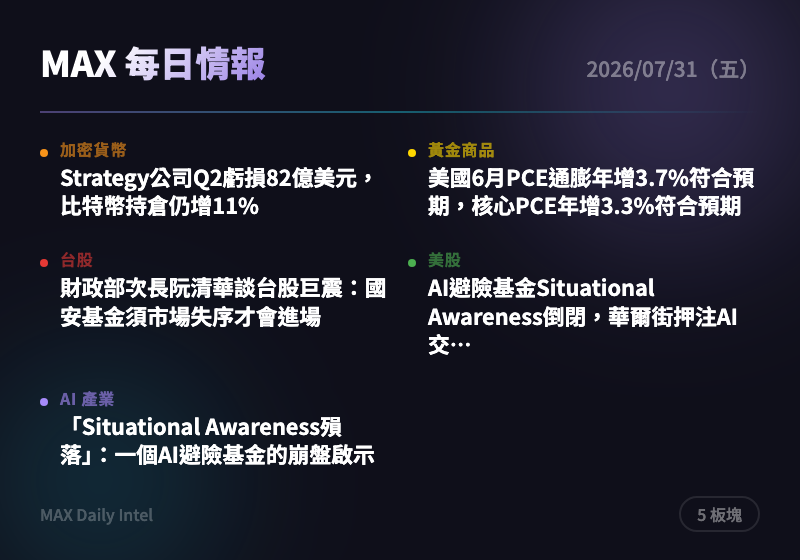
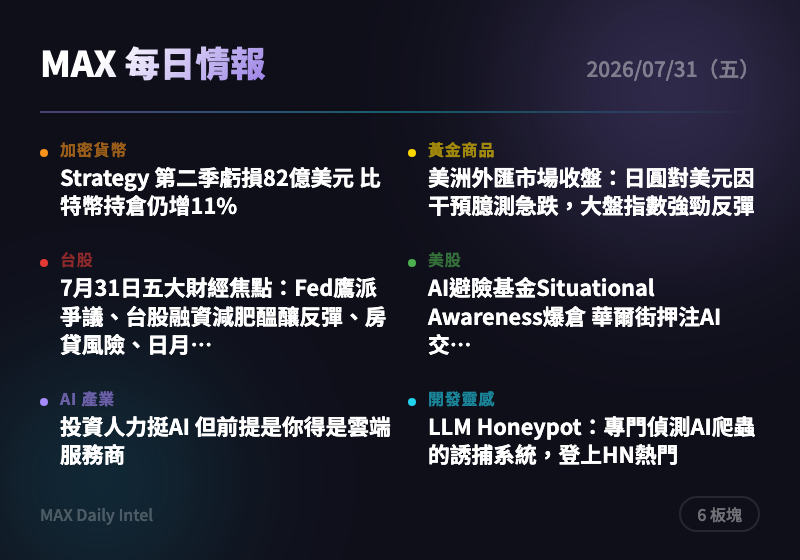
intel: 2026-07-31 每日情報自動生成

diff --git a/docs/2026-07-31.html b/docs/2026-07-31.html
@@ -295,7 +295,7 @@
     <h1>每日情報站</h1>
     <div class="date">2026 年 7 月 31 日（五）</div>
     <div class="stats">
-      <span>10 則情報</span>
+      <span>12 則情報</span>
       <span>7 大板塊</span>
     </div>
   </header>
@@ -317,16 +317,16 @@
       <span class="badge">2 則</span>
     </div>
     <div class="news-card">
-      <div class="source">The Block</div>
-      <h3><a href="https://www.theblock.co/post/410212/strategy-posts-8-2-billion-loss-as-bitcoin-holdings-increase-11-during-q2?utm_source=rss&utm_medium=rss" target="_blank" rel="noopener">Strategy公司Q2虧損82億美元，比特幣持倉仍增11%</a></h3>
-      <div class="summary">Strategy（原MicroStrategy）第二季認列82億美元虧損，主因比特幣價格較去年同期跌逾40%造成未實現損失，但公司持倉逆勢增加11%並建立37.5億美元現金儲備以支應優先股股息。顯示大型比特幣囤幣企業在熊市承受帳面壓力但策略未變，是觀察機構對BTC信心的重要指標。建議持續關注其後續是否被迫減倉。</div>
-      <div class="tags"><span class="tag">比特幣</span><span class="tag">上市公司</span><span class="tag">財報</span><span class="tag">加密貨幣</span></div>
+      <div class="source">CoinTelegraph</div>
+      <h3><a href="https://cointelegraph.com/news/strategy-reports-q2-2026-loss?utm_source=rss_feed&utm_medium=rss&utm_campaign=rss_partner_inbound" target="_blank" rel="noopener">Strategy 第二季虧損82億美元 比特幣持倉仍增11%</a></h3>
+      <div class="summary">比特幣持倉公司 Strategy 因幣價較去年同期跌逾四成，第二季認列82億美元未實現虧損，但同時持續加碼比特幣並建立37.5億美元現金儲備支應優先股股息。這反映機構級比特幣槓桿曝險在幣價下跌時的財務壓力，也顯示公司押注長期上漲的策略未變。建議關注比特幣是否跌破關鍵支撐，若繼續破底 Strategy 財務壓力恐加劇，影響其股票 MSTR 波動度。</div>
+      <div class="tags"><span class="tag">加密貨幣</span><span class="tag">比特幣</span><span class="tag">企業財報</span><span class="tag">Strategy</span></div>
     </div>
     <div class="news-card">
       <div class="source">The Block</div>
-      <h3><a href="https://www.theblock.co/post/410208/coinbase-shares-slip-after-q2-results-despite-prediction-markets-doubling-and-record-trading-market-share?utm_source=rss&utm_medium=rss" target="_blank" rel="noopener">Coinbase股價Q2財報後下滑，儘管預測市場交易量翻倍、市占創新高</a></h3>
-      <div class="summary">Coinbase公布第二季財報後股價下跌，儘管其預測市場業務交易量翻倍、整體加密貨幣交易市占創紀錄新高。公司表示88%淨營收已來自比特幣現貨交易以外的業務，顯示營收多元化成效，但市場對獲利不如預期反應負面。反映加密貨幣交易所正從單一幣種交易轉型為多元金融平台，值得留意其衍生品與穩定幣業務後續發展。</div>
-      <div class="tags"><span class="tag">交易所</span><span class="tag">財報</span><span class="tag">加密貨幣</span><span class="tag">穩定幣</span></div>
+      <h3><a href="https://www.theblock.co/post/410208/coinbase-shares-slip-after-q2-results-despite-prediction-markets-doubling-and-record-trading-market-share?utm_source=rss&utm_medium=rss" target="_blank" rel="noopener">Coinbase Q2財報後股價下滑 儘管預測市場交易量翻倍創紀錄</a></h3>
+      <div class="summary">Coinbase 公布第二季財報，儘管其預測市場業務交易量翻倍且整體加密市場交易份額創新高，股價仍在財報後下跌。公司指出88%淨營收已來自比特幣現貨交易以外的業務，顯示其收入結構正快速多元化，但市場對獲利不如預期仍有疑慮。建議觀察 Coinbase 衍生品與穩定幣業務後續成長動能，作為評估其股票長期價值的依據。</div>
+      <div class="tags"><span class="tag">加密貨幣</span><span class="tag">Coinbase</span><span class="tag">企業財報</span><span class="tag">交易所</span></div>
     </div>
   </section>
 
@@ -338,15 +338,15 @@
     </div>
     <div class="news-card">
       <div class="source">ForexLive</div>
-      <h3><a href="https://investinglive.com/news/us-june-pce-inflation-3-7-vs-3-7-expected-core-3-3-vs-3-3-expected/" target="_blank" rel="noopener">美國6月PCE通膨年增3.7%符合預期，核心PCE年增3.3%符合預期</a></h3>
-      <div class="summary">美國6月核心與整體PCE物價指數雙雙符合市場預期（整體3.7%、核心3.3%），月增率則略低於預期。聯準會主席沃許（Warsh）重申2%目標仍是政策錨點，該數據為市場提供通膨降溫的初步佐證，但幅度有限。建議關注後續FOMC會議是否因此調整利率路徑，及美元、黃金短線波動。</div>
-      <div class="tags"><span class="tag">通膨</span><span class="tag">聯準會</span><span class="tag">PCE</span><span class="tag">美國經濟</span></div>
+      <h3><a href="https://investinglive.com/news/investinglive-americas-fx-news-wrap-30-jul-usdjpy-move/" target="_blank" rel="noopener">美洲外匯市場收盤：日圓對美元因干預臆測急跌，大盤指數強勁反彈</a></h3>
+      <div class="summary">美股主要指數出現快速反彈，市場聚焦亞馬遜與蘋果盤後財報；同時日圓兌美元因市場揣測日本當局可能出手干預匯市而急速走弱。達拉斯聯儲核心通膨指標大幅降溫（+1.4% vs前值2.7%），英格蘭銀行總裁貝利亦稱通膨降溫但速度緩慢。整體訊息偏向通膨降溫、市場風險情緒回穩，建議留意日圓匯市干預傳聞後續發展及對亞洲資產的連動影響。</div>
+      <div class="tags"><span class="tag">外匯</span><span class="tag">央行</span><span class="tag">日圓</span><span class="tag">通膨</span></div>
     </div>
     <div class="news-card">
       <div class="source">ForexLive</div>
-      <h3><a href="https://investinglive.com/news/us-q2-advance-gdp-1-5-vs-2-1-expected/" target="_blank" rel="noopener">美國第二季GDP初值年化增長1.5%，低於預期2.1%</a></h3>
-      <div class="summary">美國第二季GDP初值僅增1.5%，明顯低於市場預期的2.1%，但消費支出表現強勁（3.2% vs 前值0.5%），顯示成長動能結構性轉弱但消費仍具韌性。GDP平減指數達6.3%，遠高於預期3.9%，暗示通膨壓力仍未完全消退。建議留意此組合（成長不如預期+通膨黏著）可能加深市場對停滯性通膨的疑慮，影響債市與黃金避險需求。</div>
-      <div class="tags"><span class="tag">GDP</span><span class="tag">美國經濟</span><span class="tag">通膨</span><span class="tag">總體經濟</span></div>
+      <h3><a href="https://investinglive.com/news/dallas-fed-trimmed-mean-1-4-vs-2-7-in-may/" target="_blank" rel="noopener">達拉斯聯儲核心通膨指標降至1.4% 遠低於前值2.7%</a></h3>
+      <div class="summary">達拉斯聯儲的核心（Trimmed Mean）PCE通膨指標大幅降至+1.4%，遠低於前值+2.7%，也遠低於整體PCE的+3.7%及核心PCE的+3.3%，並創下2020年以來最低水準。此指標剔除極端數據更能反映通膨真實趨勢，降溫幅度明顯高於headline數據，是聯準會鴿派立場的有力佐證。建議留意此訊號是否強化市場對後續降息或維持寬鬆立場的預期，對黃金及美元走勢皆有影響。</div>
+      <div class="tags"><span class="tag">央行</span><span class="tag">通膨</span><span class="tag">美國經濟</span><span class="tag">PCE</span></div>
     </div>
   </section>
 
@@ -358,15 +358,15 @@
     </div>
     <div class="news-card">
       <div class="source">經濟日報</div>
-      <h3><a href="https://money.udn.com/money/story/5607/9661689" target="_blank" rel="noopener">財政部次長阮清華談台股巨震：國安基金須市場失序才會進場</a></h3>
-      <div class="summary">國安基金執行秘書、財政部次長阮清華表示，只有遇到重大事件導致信心崩盤、市場失序等特殊狀況國安基金才會進場護盤，目前股市雖有下跌但也有反彈，暫不視為失序。此發言等於官方定調現階段修正屬正常波動，不會貿然動用國安基金，市場需自行消化賣壓。建議投資人不宜過度期待政策護盤，應以基本面與籌碼面自行判斷進出場時機。</div>
-      <div class="tags"><span class="tag">國安基金</span><span class="tag">台股</span><span class="tag">政策</span><span class="tag">財政部</span></div>
+      <h3><a href="https://money.udn.com/money/story/5607/9661963" target="_blank" rel="noopener">7月31日五大財經焦點：Fed鷹派爭議、台股融資減肥醞釀反彈、房貸風險、日月光加碼</a></h3>
+      <div class="summary">今日台股與國際財經五大焦點涵蓋：Fed利率維持不變但三官員主張升息引發鷹派爭議；台股連日重挫後融資大幅減肥、期指夜盤勁揚顯示反彈訊號浮現；央行示警房貸「四貸同堂」恐危及金融穩定；日月光二度上修資本支出並砸120億元收購友達、乖乖廠房擴產。這些訊息綜合顯示台股短線築底跡象漸增，但總經與信用風險仍需留意。建議關注台指期夜盤走勢及融資變化，判斷反彈是否具持續性。</div>
+      <div class="tags"><span class="tag">台股</span><span class="tag">央行</span><span class="tag">半導體</span><span class="tag">財經時事</span></div>
     </div>
     <div class="news-card">
       <div class="source">經濟日報</div>
-      <h3><a href="https://money.udn.com/money/story/5607/9661806" target="_blank" rel="noopener">台股融資減肥醞釀反彈，台指期夜盤一度勁揚千點，市場氣氛好轉</a></h3>
-      <div class="summary">台股在兩日暴跌3,595點後出現1,751點的震盪洗盤，最終小跌105點收39,933點、失守4萬點大關，但融資餘額大減175.3億元、跌破5,000億元關卡，顯示浮額已大幅出清；台指期夜盤一度勁揚千點，市場氣氛轉為好轉。這是判斷本輪修正是否近尾聲的重要籌碼面訊號，融資出清通常代表恐慌性賣壓釋放接近完成。建議觀察台積電等權值股能否在低檔穩住，作為反彈確認訊號。</div>
-      <div class="tags"><span class="tag">台股</span><span class="tag">融資餘額</span><span class="tag">台指期</span><span class="tag">技術面</span></div>
+      <h3><a href="https://money.udn.com/money/story/5607/9661806" target="_blank" rel="noopener">台股融資大減 醞釀反彈 台指期夜盤一度勁揚千點</a></h3>
+      <div class="summary">台股在兩日內暴跌3,595點後，昨日出現1,751點的震盪洗盤走勢，融資餘額單日再減131.4億元、跌破5,000億元大關，顯示浮額大致出清；盤中在台積電領軍下一度反彈逾千點，終場僅小跌105點守住39,933點。台指期夜盤一度勁揚千點，市場氣氛明顯轉好，顯示短線止跌訊號浮現。建議留意融資是否持續下降、台積電等權值股是否能延續反彈力道，作為判斷是否止跌回穩的關鍵指標。</div>
+      <div class="tags"><span class="tag">台股</span><span class="tag">台積電</span><span class="tag">融資</span><span class="tag">技術面</span></div>
     </div>
   </section>
 
@@ -378,15 +378,15 @@
     </div>
     <div class="news-card">
       <div class="source">MarketWatch</div>
-      <h3><a href="https://www.marketwatch.com/story/implosion-of-situational-awareness-has-wall-street-betting-the-bottom-is-in-for-the-ai-trade-05d9f346?mod=mw_rss_topstories" target="_blank" rel="noopener">AI避險基金Situational Awareness倒閉，華爾街押注AI交易已觸底</a></h3>
-      <div class="summary">由20多歲AI界神童領軍、聲名大噪的避險基金Situational Awareness已實質倒閉，其股票投資組合遭Citadel收購，成為本月美股最戲劇性事件之一。事件發生後，市場反而解讀為AI相關交易的悲觀情緒已達極端、可能是觸底訊號，部分投資人開始逢低承接科技股。建議留意此事件是否僅為單一基金過度槓桿的個案，還是預示AI概念股整體估值修正尚未結束。</div>
-      <div class="tags"><span class="tag">避險基金</span><span class="tag">AI</span><span class="tag">美股</span><span class="tag">科技股</span></div>
+      <h3><a href="https://www.marketwatch.com/story/implosion-of-situational-awareness-has-wall-street-betting-the-bottom-is-in-for-the-ai-trade-05d9f346?mod=mw_rss_topstories" target="_blank" rel="noopener">AI避險基金Situational Awareness爆倉 華爾街押注AI交易已觸底</a></h3>
+      <div class="summary">由二十多歲AI神童操盤的知名避險基金Situational Awareness宣告爆倉，成為近期美股最動盪一個月的戲劇性句點。此事件反而讓華爾街部分投資人解讀為AI交易情緒已見底的訊號，可能是逢低布局的契機。建議留意此類槓桿型AI概念基金風險是否具傳染性，同時觀察後續是否有更多AI相關基金或個股出現資金重新配置。</div>
+      <div class="tags"><span class="tag">美股</span><span class="tag">AI</span><span class="tag">避險基金</span><span class="tag">市場情緒</span></div>
     </div>
     <div class="news-card">
       <div class="source">WSJ Markets</div>
-      <h3><a href="https://www.wsj.com/finance/stocks/microsoft-posts-biggest-one-day-market-cap-gain-for-any-u-s-company-b8713761?mod=rss_markets_main" target="_blank" rel="noopener">微軟創美國企業史上單日市值最大漲幅，Meta股價則重挫</a></h3>
-      <div class="summary">微軟在財報公布後市值單日暴增4,500億美元，創下美國企業史上單日市值最大增幅紀錄，主因雲端業務成長強勁且AI支出被評為「負責任」不致燒錢；同期Meta股價卻重挫，投資人對其AI鉅額支出遲遲看不到廣告以外的獲利感到不耐。兩者形成強烈對比，反映市場正在用「AI變現能力」重新篩選科技巨頭的估值邏輯。建議關注雲端三雄（微軟、亞馬遜、Google）與社群/廣告類AI巨頭（Meta）的估值分化是否持續擴大。</div>
-      <div class="tags"><span class="tag">微軟</span><span class="tag">Meta</span><span class="tag">財報</span><span class="tag">AI</span></div>
+      <h3><a href="https://www.wsj.com/finance/stocks/microsoft-posts-biggest-one-day-market-cap-gain-for-any-u-s-company-b8713761?mod=rss_markets_main" target="_blank" rel="noopener">微軟創美股史上單日最大市值增幅 Meta股價卻重挫</a></h3>
+      <div class="summary">微軟公布財報後市值單日暴增4,500億美元，創下美國企業史上最大單日市值增幅紀錄，主因雲端業務展現強勁成長並在AI支出上採取「負責任」財務策略。同時Meta股價卻大幅重挫，投資人對其AI支出能否轉化為獲利仍存疑。兩者對比凸顯市場正在AI巨頭之間進行嚴格的「投資報酬率」篩選。建議關注科技股財報季後續分化走勢，優先留意具備明確AI變現路徑的公司。</div>
+      <div class="tags"><span class="tag">美股</span><span class="tag">科技股</span><span class="tag">微軟</span><span class="tag">AI</span></div>
     </div>
   </section>
 
@@ -397,16 +397,16 @@
       <span class="badge">2 則</span>
     </div>
     <div class="news-card">
-      <div class="source">The Verge AI</div>
-      <h3><a href="https://www.theverge.com/ai-artificial-intelligence/973467/ai-bet-situational-awareness-oops-stonks" target="_blank" rel="noopener">「Situational Awareness殞落」：一個AI避險基金的崩盤啟示</a></h3>
-      <div class="summary">The Verge以評論角度分析Situational Awareness避險基金崩盤事件，戲稱教訓是「別把基金取一個爆倉了會很好笑的名字」，呼應歷史上長期資本管理（LTCM）等案例。事件核心是基金重壓AI相關資產卻在市場修正中重傷倒閉，反映即便是AI領域內部人士主導的基金，也未能免於過度自信與槓桿風險。建議將此事件視為AI熱潮中風險管理紀律的警世案例，而非否定AI長期趨勢本身。</div>
-      <div class="tags"><span class="tag">AI</span><span class="tag">避險基金</span><span class="tag">市場評論</span><span class="tag">風險管理</span></div>
+      <div class="source">TechCrunch AI</div>
+      <h3><a href="https://techcrunch.com/2026/07/30/investors-love-ai-as-long-as-youre-a-cloud-host/" target="_blank" rel="noopener">投資人力挺AI 但前提是你得是雲端服務商</a></h3>
+      <div class="summary">報導指出，亞馬遜持續加碼資料中心支出，投資人對此並未表現出擔憂，反映市場資金仍偏好具備雲端基礎設施優勢的AI受益者。這顯示AI投資熱潮正逐漸從「概念股」轉向「基礎設施提供者」，資本市場對燒錢式AI投資的容忍度取決於是否有雲端收入作為支撐。建議關注雲端三巨頭（微軟、亞馬遜、Google）資本支出與雲端營收成長的對比，作為判斷AI投資泡沫風險的指標。</div>
+      <div class="tags"><span class="tag">AI</span><span class="tag">雲端運算</span><span class="tag">亞馬遜</span><span class="tag">資本支出</span></div>
     </div>
     <div class="news-card">
       <div class="source">TechCrunch AI</div>
-      <h3><a href="https://techcrunch.com/2026/07/30/judge-says-trump-admin-still-lacks-evidence-for-anthropic-supply-chain-risk-label/" target="_blank" rel="noopener">法官稱川普政府仍缺乏證據將Anthropic列為「供應鏈風險」</a></h3>
-      <div class="summary">聯邦法官表示，川普政府尚未提出足夠證據，證明將Anthropic（人工智慧公司，Claude開發商）列為「供應鏈風險」的正當性，使政府對其AI技術的禁令面臨法律質疑。此案關係到美國政府對AI公司實施出口管制或使用限制的法律基礎是否站得住腳，對整個AI產業的監管環境具指標意義。建議持續關注後續判決是否進一步限縮政府對AI企業的行政裁量權。</div>
-      <div class="tags"><span class="tag">Anthropic</span><span class="tag">監管</span><span class="tag">AI政策</span><span class="tag">法律</span></div>
+      <h3><a href="https://techcrunch.com/2026/07/30/judge-says-trump-admin-still-lacks-evidence-for-anthropic-supply-chain-risk-label/" target="_blank" rel="noopener">法官指川普政府仍缺乏證據將Anthropic列為「供應鏈風險」</a></h3>
+      <div class="summary">聯邦法官表示，川普政府尚未提出足夠證據，證明將Anthropic（人工智慧公司）列為「供應鏈風險」標籤具正當性，使政府對其AI技術的禁令面臨質疑。此案若最終判定政府敗訴，將是AI業者對抗監管過度延伸的重要指標性勝利，也可能影響其他AI公司面對類似政治風險的態度。建議持續關注此案後續判決，評估對Anthropic及美國AI監管政策走向的影響。</div>
+      <div class="tags"><span class="tag">AI</span><span class="tag">Anthropic</span><span class="tag">監管</span><span class="tag">法律</span></div>
     </div>
   </section>
 
@@ -414,9 +414,20 @@
     <div class="sector-header">
       <div class="indicator" style="background:#00bcd4"></div>
       <h2>&#x1f6e0;&#xfe0f; 開發靈感</h2>
-      <span class="badge">0 則</span>
+      <span class="badge">2 則</span>
     </div>
-    <div class="empty">今日暫無相關情報</div>
+    <div class="news-card">
+      <div class="source">Hacker News Best</div>
+      <h3><a href="https://llm2human.pages.dev/" target="_blank" rel="noopener">LLM Honeypot：專門偵測AI爬蟲的誘捕系統，登上HN熱門</a></h3>
+      <div class="summary">一款名為「LLM Honeypot」的專案登上Hacker News熱門榜（372讚、105則留言），用來誘捕並辨識AI爬蟲/機器人流量。此類工具反映開發者社群對AI爬蟲氾濫問題的關注升溫，也是內容防護與反機器人技術的新興方向。建議若MAX的網站或服務有內容保護需求，可參考此類honeypot設計思路作為防禦AI爬蟲的補充手段。</div>
+      <div class="tags"><span class="tag">開發工具</span><span class="tag">AI爬蟲</span><span class="tag">資安</span><span class="tag">開源</span></div>
+    </div>
+    <div class="news-card">
+      <div class="source">Product Hunt</div>
+      <h3><a href="https://www.producthunt.com/products/yap-5" target="_blank" rel="noopener">Yap：Mac專用開源語音輸入工具，完全在裝置端運行</a></h3>
+      <div class="summary">「Yap」是一款開源的Mac語音輸入（dictation）工具，強調完全在裝置端（on-device）運行，不需將語音資料上傳雲端。此類工具符合近期隱私優先與本機AI運算的趨勢，對重視資料隱私或離線可用性的使用者具吸引力。建議若MAX有本機語音輸入或無雲端依賴的工具需求，可留意此類開源方案的成熟度與整合可能性。</div>
+      <div class="tags"><span class="tag">開發工具</span><span class="tag">語音辨識</span><span class="tag">開源</span><span class="tag">隱私</span></div>
+    </div>
   </section>
 
 

diff --git a/docs/cards/2026-07-31-card.html b/docs/cards/2026-07-31-card.html
@@ -23,10 +23,11 @@ body{width:400px;height:280px;font-family:'Noto Sans TC',-apple-system,sans-seri
 <div class="content">
 <div class="top-row"><span class="title">MAX 每日情報</span><span class="date">2026/07/31（五）</span></div>
 <div class="divider"></div>
-<div class="grid"><div class="cell"><div class="dot" style="background:#f7931a"></div><div><div class="label" style="color:#f7931a">加密貨幣</div><div class="headline">Strategy公司Q2虧損82億美元，比特幣持倉仍增11%</div></div></div>
-<div class="cell"><div class="dot" style="background:#ffd700"></div><div><div class="label" style="color:#ffd700">黃金商品</div><div class="headline">美國6月PCE通膨年增3.7%符合預期，核心PCE年增3.3%符合預期</div></div></div>
-<div class="cell"><div class="dot" style="background:#e53935"></div><div><div class="label" style="color:#e53935">台股</div><div class="headline">財政部次長阮清華談台股巨震：國安基金須市場失序才會進場</div></div></div>
-<div class="cell"><div class="dot" style="background:#4caf50"></div><div><div class="label" style="color:#4caf50">美股</div><div class="headline">AI避險基金Situational Awareness倒閉，華爾街押注AI交…</div></div></div>
-<div class="cell"><div class="dot" style="background:#a78bfa"></div><div><div class="label" style="color:#a78bfa">AI 產業</div><div class="headline">「Situational Awareness殞落」：一個AI避險基金的崩盤啟示</div></div></div></div>
-<div class="bottom-row"><span class="url">MAX Daily Intel</span><span class="badge">5 板塊</span></div>
+<div class="grid"><div class="cell"><div class="dot" style="background:#f7931a"></div><div><div class="label" style="color:#f7931a">加密貨幣</div><div class="headline">Strategy 第二季虧損82億美元 比特幣持倉仍增11%</div></div></div>
+<div class="cell"><div class="dot" style="background:#ffd700"></div><div><div class="label" style="color:#ffd700">黃金商品</div><div class="headline">美洲外匯市場收盤：日圓對美元因干預臆測急跌，大盤指數強勁反彈</div></div></div>
+<div class="cell"><div class="dot" style="background:#e53935"></div><div><div class="label" style="color:#e53935">台股</div><div class="headline">7月31日五大財經焦點：Fed鷹派爭議、台股融資減肥醞釀反彈、房貸風險、日月…</div></div></div>
+<div class="cell"><div class="dot" style="background:#4caf50"></div><div><div class="label" style="color:#4caf50">美股</div><div class="headline">AI避險基金Situational Awareness爆倉 華爾街押注AI交…</div></div></div>
+<div class="cell"><div class="dot" style="background:#a78bfa"></div><div><div class="label" style="color:#a78bfa">AI 產業</div><div class="headline">投資人力挺AI 但前提是你得是雲端服務商</div></div></div>
+<div class="cell"><div class="dot" style="background:#22d3ee"></div><div><div class="label" style="color:#22d3ee">開發靈感</div><div class="headline">LLM Honeypot：專門偵測AI爬蟲的誘捕系統，登上HN熱門</div></div></div></div>
+<div class="bottom-row"><span class="url">MAX Daily Intel</span><span class="badge">6 板塊</span></div>
 </div></body></html>

diff --git a/docs/index.html b/docs/index.html
@@ -151,7 +151,7 @@
     <span>&#x1f6e0;&#xfe0f; 開發靈感</span>
   </div>
 
-  <ul class="issue-list">    <li><a class="issue-card" href="2026-07-31.html"><img src="cards/2026-07-31.png" alt="2026-07-31 每日情報摘要" loading="lazy"><div class="info"><span class="date">2026/07/31（五）</span><span class="meta">10 則情報</span></div></a></li>
+  <ul class="issue-list">    <li><a class="issue-card" href="2026-07-31.html"><img src="cards/2026-07-31.png" alt="2026-07-31 每日情報摘要" loading="lazy"><div class="info"><span class="date">2026/07/31（五）</span><span class="meta">12 則情報</span></div></a></li>
     <li><a class="issue-card" href="2026-07-30.html"><img src="cards/2026-07-30.png" alt="2026-07-30 每日情報摘要" loading="lazy"><div class="info"><span class="date">2026/07/30（四）</span><span class="meta">12 則情報</span></div></a></li>
     <li><a class="issue-card" href="2026-07-29.html"><img src="cards/2026-07-29.png" alt="2026-07-29 每日情報摘要" loading="lazy"><div class="info"><span class="date">2026/07/29（三）</span><span class="meta">12 則情報</span></div></a></li>
     <li><a class="issue-card" href="2026-07-28.html"><img src="cards/2026-07-28.png" alt="2026-07-28 每日情報摘要" loading="lazy"><div class="info"><span class="date">2026/07/28（二）</span><span class="meta">11 則情報</span></div></a></li>
